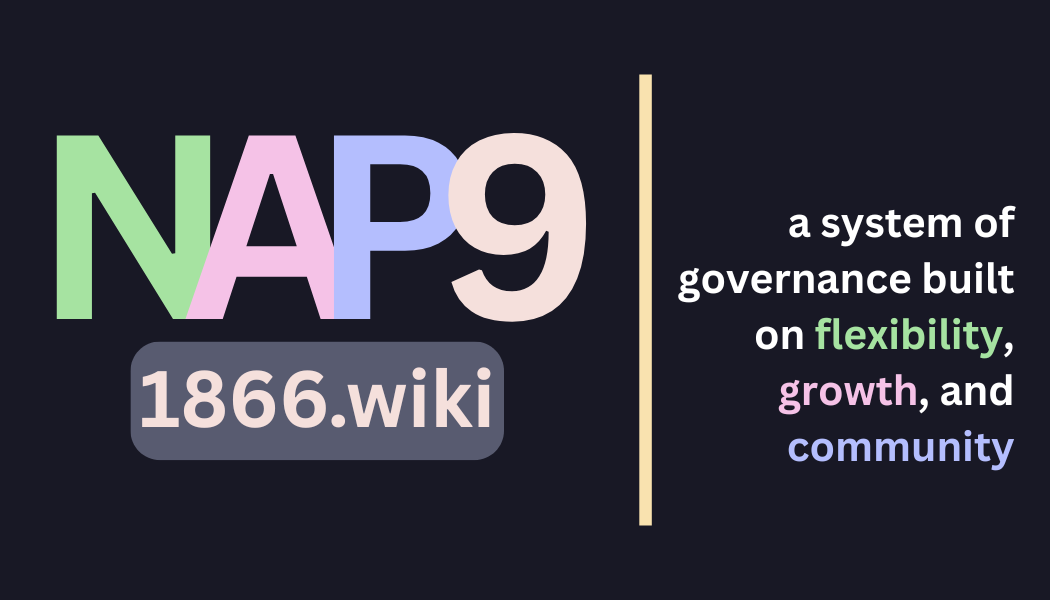
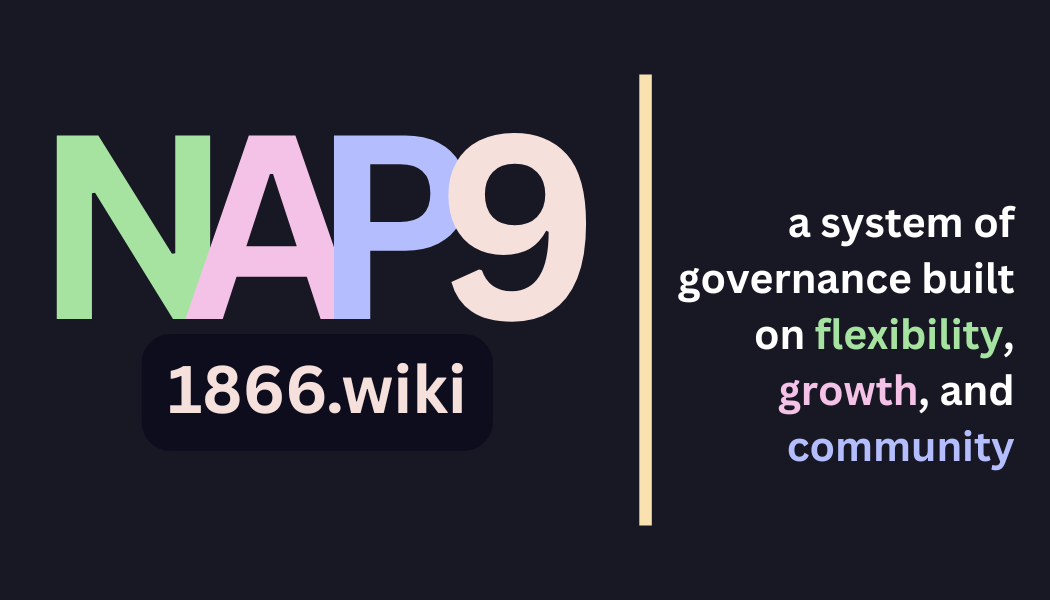
embed fix take two, electric boogaloo

Changed region(s): [[0.1219, 0.57, 0.4876, 0.78]]

diff --git a/src/pages/index.js b/src/pages/index.js
@@ -32,7 +32,7 @@ export default function Home() {
   const {siteConfig} = useDocusaurusContext();
   return (
     <Layout
-      title="NAP 9 @ 1866.wiki"
+      title="Platform for Our NAP 9"
       description="A Love Letter in Governance to the 1866 Community">
       <HomepageHeader />
       <main>
